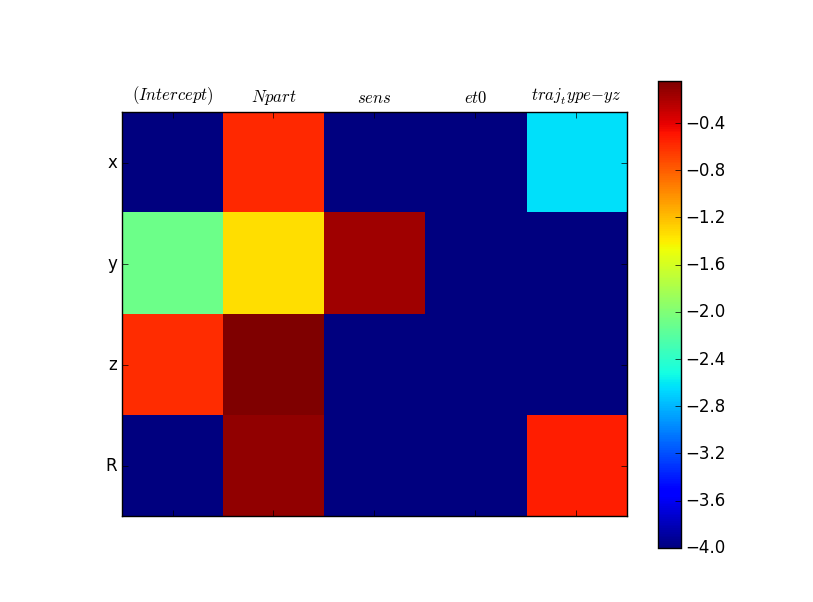
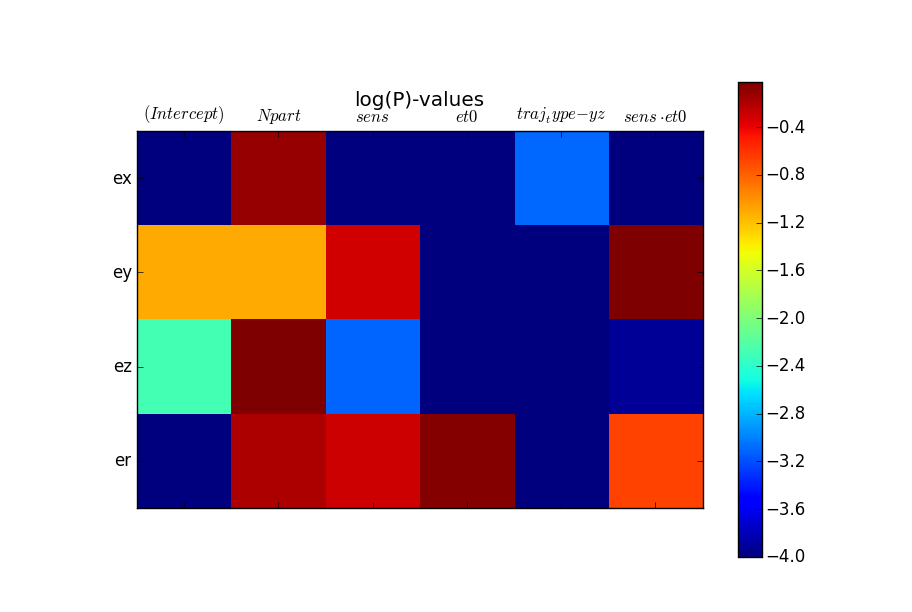
New features and tests

diff --git a/README.md b/README.md
@@ -19,6 +19,11 @@ The heatmap shows log(P)-values of the estimated parameters in a set of (general
 ![window](images/heatmap.png)
 ###scattermatrix
 The scattermatrix shows a number of variables in a DataFrame, (or a number of columns in a matrix), as a function of other variables (columns). If no extra arguments are given, all variales are plotted as a function of each other. A histogram is plotted instead of a variable as a function of itself.
+
+```julia
+scattermatrix(df, ex + ey + ez + er ~ Npart + σW1 + σV1 + σV2 + σV3)
+```
+results in
 ![window](images/scatterplot.png)
 
 
@@ -26,10 +31,11 @@ The scattermatrix shows a number of variables in a DataFrame, (or a number of co
 ##Usage examples
 ```julia
 using ExperimentalAnalysis, DataFrames, GLM
-```
 
-```julia
+# Run example function
 perform_example_analysis()
+
+# Create some DataFrames and linear models and visualize the result using the package functions
 df1 = DataFrame(randn(10,4))
 df2 = DataFrame(10randn(10,4))
 modela = lm(x1 ~ x2 + x3, df1)
@@ -38,9 +44,19 @@ modelheatmap(["a", "b"], modela, modelb)
 modelheatmap(["a", "b"], [modela, modelb])
 ```
 
-The following formula syntax may be used, interpreted as: plot `x3` and `x4` as functions of `x1` and `x2`
+The following formula syntax may be used to create a scattermatrix, interpreted as: plot `x3` and `x4` as functions of `x1` and `x2`
 ```julia
 scattermatrix(df1, x3 + x4 ~ x1 + x2)
+```
+
+One can also plot all variables as functions of all other variables
+```julia
+scattermatrix(df1)
+```
+
+Or just visualize the columns in a matrix
+```julia
+scattermatrix(randn(100,3).+[1,2,3])
 ```
 
 
